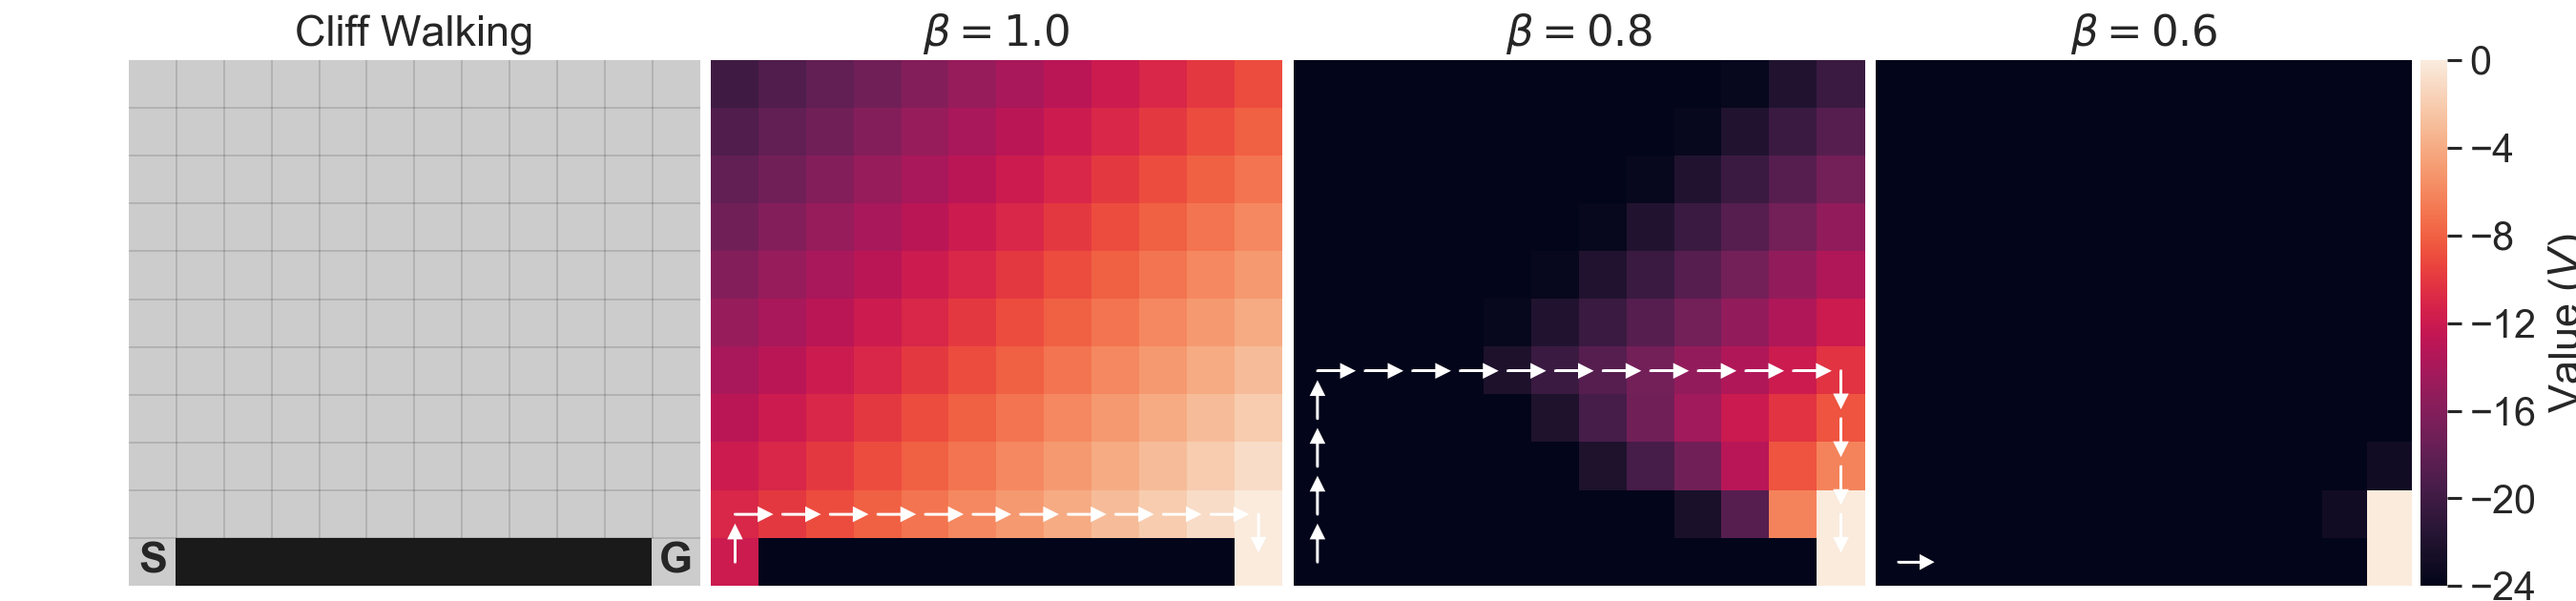
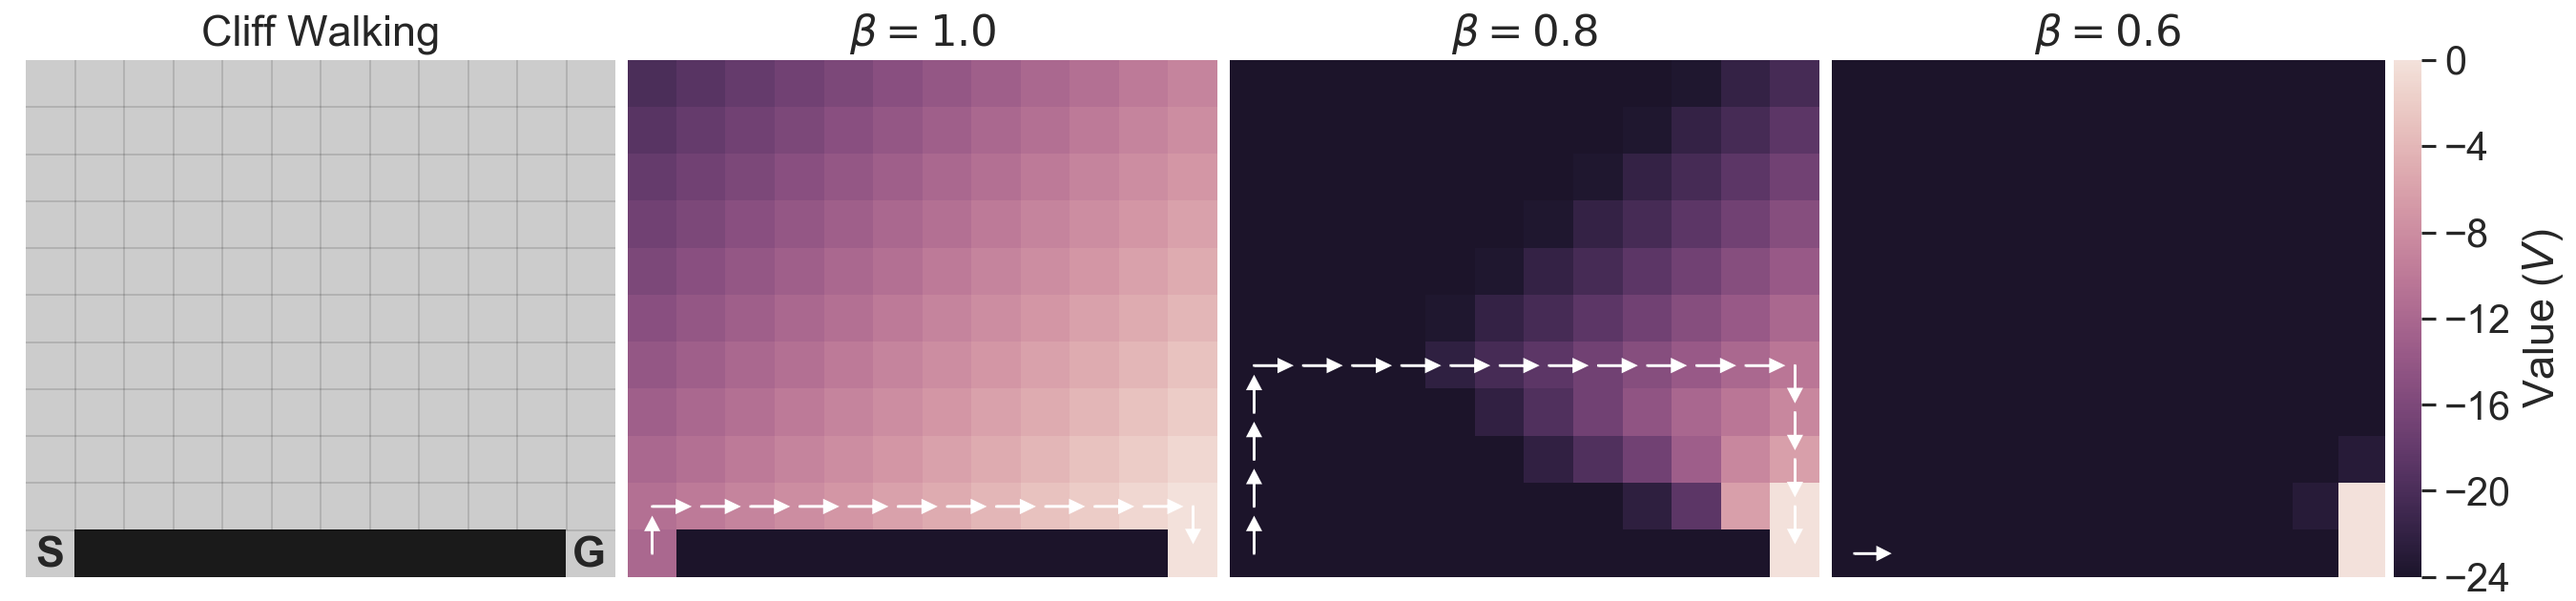
first pass at images unified under single color scheme

diff --git a/manuscript/manuscript.tex b/manuscript/manuscript.tex
@@ -1,7 +1,7 @@
 \documentclass[11pt]{article} % For LaTeX2e
-\usepackage{manuscript,palatino}
+\usepackage{manuscript, palatino}
 \usepackage{graphicx}
-\usepackage{amsfonts,amsmath}
+\usepackage{amsfonts, amsmath}
 \usepackage{algorithm, algpseudocode}%
 
 \title{Anxiety: a decision-theoretic perspective}
@@ -207,7 +207,7 @@ it for expected random. Show it for worst-case scenario.
     \resizebox{1.0\textwidth}{!}{\includegraphics[trim={0 0 0 0},clip]{../figures/01_field.png}}%
   }
   \caption{\textbf{Open Field}}
-  \par Oooh so pretty.
+  \par remember to add parameters
 \end{figure}
 
 \subsection{Avoidance}
@@ -217,18 +217,42 @@ it for expected random. Show it for worst-case scenario.
     \resizebox{1.0\textwidth}{!}{\includegraphics[trim={0 0 0 0},clip]{../figures/02_cliff.png}}%
   }
   \caption{\textbf{Cliff Walking}}
-  \par You better watch out YOU BETTER WATCH OUT
+  \par remember to add parameters
 \end{figure}
 
 Discuss similar observations in other tasks (Bach et al., 2014; Sheynin et al., 2015).
 
 \subsection{Approach-Avoidance Conflict}
 
+\begin{figure}
+  \centerline{%
+    \resizebox{1.0\textwidth}{!}{\includegraphics[trim={0 0 0 0},clip]{../figures/03_fid.png}}%
+  }
+  \caption{\textbf{Flight Initiation Distance}}
+  \par remember to add parameters
+\end{figure}
+
 Discuss Bach behavioral inhibition.
 
 \subsection{Planning}
 
+\begin{figure}
+  \centerline{%
+    \resizebox{1.0\textwidth}{!}{\includegraphics[trim={0 0 0 0},clip]{../figures/04_tree.png}}%
+  }
+  \caption{\textbf{Decision Tree}}
+  \par remember to add parameters
+\end{figure}
+
 \subsection{Free Choice Premium}
+
+\begin{figure}
+  \centerline{%
+    \resizebox{1.0\textwidth}{!}{\includegraphics[trim={0 0 0 0},clip]{../figures/05_choice.png}}%
+  }
+  \caption{\textbf{Free Choice Premium}}
+  \par remember to add parameters
+\end{figure}
 
 \subsection{Longitudinal Progression}
 

diff --git a/sisyphus/viz/_field.py b/sisyphus/viz/_field.py
@@ -1,0 +1,43 @@
+import numpy as np
+import matplotlib.pyplot as plt
+import seaborn as sns
+from matplotlib.colors import ListedColormap
+
+def plot_field(ax, cbar=False, viable='0.8', reward='#f3e1db', shock='#1c142a'):
+    """Plot cliff-walking environment.
+    
+    Parameters
+    ----------
+    ax : matplotlib Axes
+        Axes in which to draw the plot.
+    cbar : bool
+        Whether to draw a colorbar.
+    viable : str
+        Color of viable squares.
+    reward : str
+        Color of rewarding tile.
+    end : str
+        Color of ending tile.
+        
+    Returns
+    -------
+    ax : matplotlib Axes
+        Axes in which to draw the plot.
+    """
+    
+    ## Define grid.
+    grid = np.zeros((11, 11))    # Viable states
+    grid[5,[2,-3]] = [1, 2]      # Reward/shock states
+    
+    ## Define colormap.
+    cmap = ListedColormap([viable, reward, shock])
+
+    ## Plot cliff.
+    ax = sns.heatmap(grid, cmap=cmap, cbar=cbar)
+    ax.set(xticklabels=[], yticklabels=[], title='Cliff Walking')  
+    
+    ## Add outline.
+    ax.vlines(np.arange(1,11),0,11,lw=0.1)
+    ax.hlines(np.arange(1,11),0,11,lw=0.1)
+    
+    return ax

diff --git a/sisyphus/viz/_cliff.py b/sisyphus/viz/_cliff.py
@@ -48,7 +48,9 @@ def plot_cliff(ax, cbar=False, viable='0.8', cliff='0.1', start='#1f77b4', end='
     ax.hlines(np.arange(1,11),0,12,lw=0.1)
     
     ## Add text.
-    ax.text(0.5,10.5,'S',ha='center',va='center',fontsize=18,weight='semibold')
-    ax.text(11.5,10.5,'G',ha='center',va='center',fontsize=18,weight='semibold')
+    ax.annotate('S', (0, 0), (0.041, 0.04), 'axes fraction', ha='center', 
+                va='center', fontsize=18, weight='semibold')
+    ax.annotate('G', (0, 0), (0.954, 0.04), 'axes fraction', ha='center', 
+                va='center', fontsize=18, weight='semibold')
     
     return ax

diff --git a/sisyphus/viz/__init__.py b/sisyphus/viz/__init__.py
@@ -3,4 +3,5 @@
 from ._base import plot_policy
 from ._choice import plot_free_choice
 from ._cliff import plot_cliff
+from ._field import plot_field
 from ._tree import plot_decision_tree
